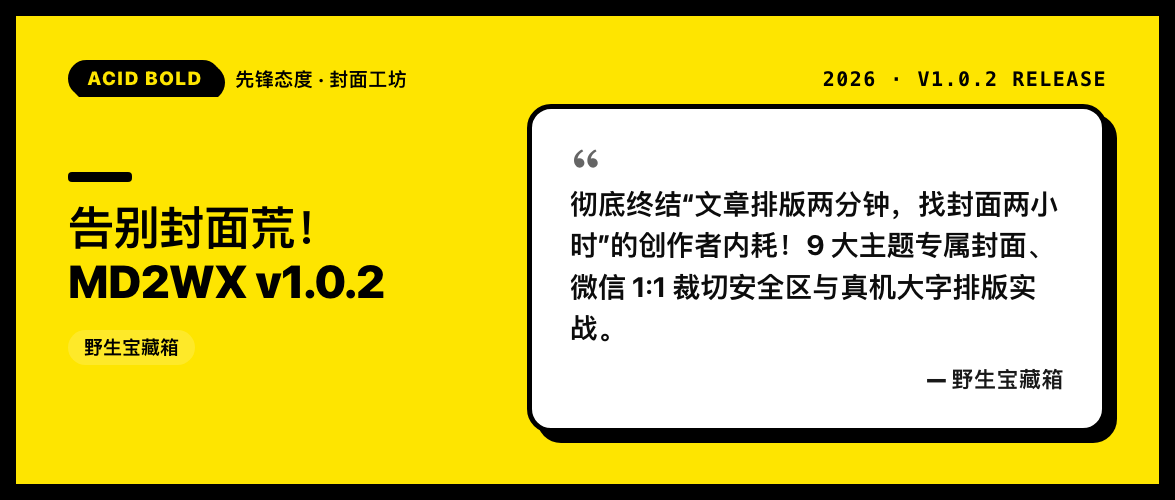
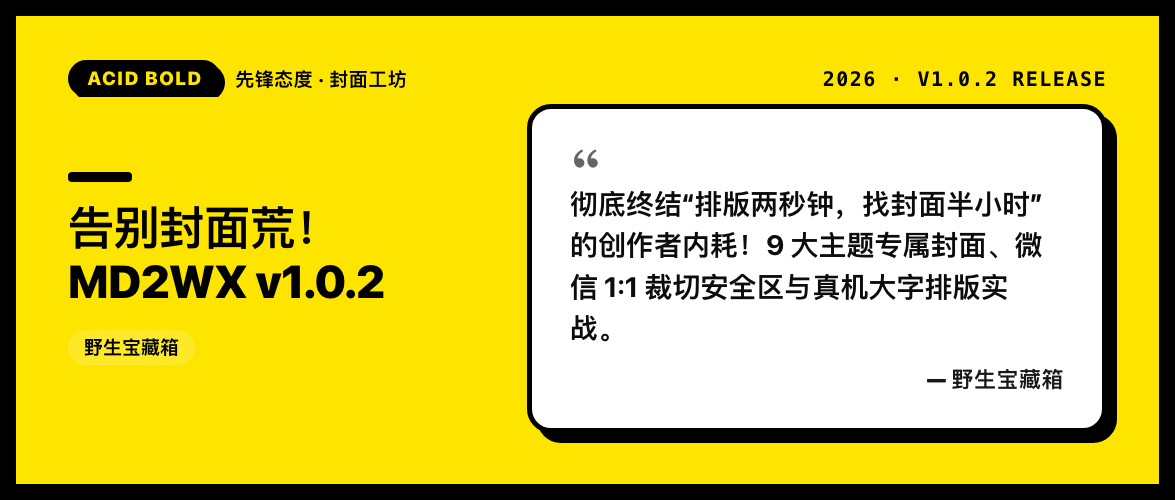
fix(parser): improve bold regex to prevent swallow and unify slogan to '排版两秒钟，找封面半小时'

Changed region(s): [[0.4902, 0.36, 0.9191, 0.6]]

diff --git a/web/src/core/parser.js b/web/src/core/parser.js
@@ -128,9 +128,9 @@ export function formatInline(text, accent, codeFontSize = '13.5px', footnotes = 
     return k;
   });
 
-  // 3. 粗体与斜体
-  text = text.replace(/\*\*(.+?)\*\*/g, '<strong>$1</strong>');
-  text = text.replace(/(^|[^*])\*([^*]+?)\*(?!\*)/g, '$1<em>$2</em>');
+  // 3. 粗体与斜体 (严格界定符，避免内部跨越 ** 或穿透普通文本导致反转误加粗)
+  text = text.replace(/\*\*(?![\*\s])((?:[^*]|\*(?!\*))+?)(?<![\*\s])\*\*/g, '<strong>$1</strong>');
+  text = text.replace(/(^|[^*])\*(?![\*\s])([^*\n]+?)(?<![\*\s])\*(?!\*)/g, '$1<em>$2</em>');
 
   // 4. 彻底还原保护的 tokens (支持嵌套多轮展开)
   let loops = 5;

diff --git a/tests/test_parser.py b/tests/test_parser.py
@@ -237,6 +237,16 @@ kind: Pod
         self.assertNotIn("<style>", html)
         self.assertNotIn("<script>", html)
 
+    def test_bold_inline_with_quotes_and_asterisks(self):
+        """测试加粗遇到单引号、双引号以及容错避免跨段误吞"""
+        md = "测试 **'单引号'** 与 **“中文双引号”**，还有多余星号容错：**加粗1**。**** 中间普通文本 **加粗2**"
+        html = markdown_to_wechat_html(md)
+        self.assertIn("<strong>'单引号'</strong>", html)
+        self.assertIn("<strong>“中文双引号”</strong>", html)
+        self.assertIn("<strong>加粗1</strong>", html)
+        self.assertIn("<strong>加粗2</strong>", html)
+        self.assertNotIn("<strong> 中间普通文本", html)
+
 if __name__ == "__main__":
     unittest.main()
 

diff --git a/md2wx/parser.py b/md2wx/parser.py
@@ -110,9 +110,9 @@ def format_inline(text: str, accent: str, code_font_size: str = "13.5px", footno
 
     text = re.sub(r"\[(.*?)\]\((.*?)\)", save_link, text)
 
-    # 3. 粗体与斜体
-    text = re.sub(r"\*\*(.+?)\*\*", r"<strong>\1</strong>", text)
-    text = re.sub(r"(?<!\*)\*([^*]+?)\*(?!\*)", r"<em>\1</em>", text)
+    # 3. 粗体与斜体 (严格界定符，避免内部跨越 ** 或穿透普通文本导致反转误加粗)
+    text = re.sub(r"\*\*(?![\*\s])((?:[^*]|\*(?!\*))+?)(?<![\*\s])\*\*", r"<strong>\1</strong>", text)
+    text = re.sub(r"(?<!\*)\*(?![\*\s])([^*\n]+?)(?<![\*\s])\*(?!\*)", r"<em>\1</em>", text)
 
     # 4. 彻底还原保护的 tokens (支持多层嵌套展开)
     max_loops = 5

diff --git a/devlogs/devlog_part4_cover_studio.md b/devlogs/devlog_part4_cover_studio.md
@@ -1,7 +1,7 @@
 ---
 title: 告别封面荒！MD2WX v1.0.2 发布：9 大主题专属封面、微信 1:1 裁切安全区与真机大字排版实战
 author: 野生宝藏箱
-digest: 彻底终结“文章排版两分钟，找封面两小时”的创作者内耗！全面复盘 MD2WX v1.0.2 如何为 9 大主题量身打造同源专属封面、攻克单图文转发 1:1 裁切断头痛点、重塑手机真机发表预览大字版，以及免下载直粘微信后台的高效工作流。
+digest: 彻底终结“排版两秒钟，找封面半小时”的创作者内耗！全面复盘 MD2WX v1.0.2 如何为 9 大主题量身打造同源专属封面、攻克单图文转发 1:1 裁切断头痛点、重塑手机真机发表预览大字版，以及免下载直粘微信后台的高效工作流。
 cover: assets/covers/cover-v1.0.2-article.png
 ---
 
@@ -25,8 +25,9 @@ cover: assets/covers/cover-v1.0.2-article.png
 
 瞬间，写作的心流被打得粉碎。
 
-你不得不打开各种搜图网站、设计软件或 AI 画图工具，开始漫长繁琐的 **“找图、抠图、对齐色调、调整尺寸”。****  好不容易找到一张图，上传后发现跟整篇文章的排版风格完全割裂；更让人抓狂的是，微信单图文转发给好友或群聊时，后台会直接从 2.35:1 的长图里**强制截取左半部分的 1:1 正方形**，导致标题直接被腰斩、画面残缺断裂！
-**“用了 MD2WX文章排版两秒钟，折腾封面半小时。”**  
+你不得不打开各种搜图网站、设计软件或 AI 画图工具，开始漫长繁琐的 **“找图、抠图、对齐色调、调整尺寸”**。好不容易找到一张图，上传后发现跟整篇文章的排版风格完全割裂；更让人抓狂的是，微信单图文转发给好友或群聊时，后台会直接从 2.35:1 的长图里**强制截取左半部分的 1:1 正方形**，导致标题直接被腰斩、画面残缺断裂！
+
+**“用了 MD2WX，排版两秒钟，找封面半小时。”**  
 这是很多公众号创作者最隐秘、却最消耗热情的内耗。
 
 **为什么排版工具不能直接为当前主题提供一张设计同源、自适应多比例、支持一键复制的专属默认封面？**

diff --git a/devlogs/README.md b/devlogs/README.md
@@ -48,7 +48,7 @@ devlogs/
 ### [Part 4: 9大主题专属封面、1:1安全区与真机大字排版](devlog_part4_cover_studio.md)
 - **版本关联**：`v1.0.2`
 - **主要内容**：
-  - 终结“排版两分钟，找封面两小时”的内耗：推出 **Cover Studio 封面工坊**。
+  - 终结“排版两秒钟，找封面半小时”的内耗：推出 **Cover Studio 封面工坊**。
   - 为 9 大视觉主题定制同源设计语言的默认封面模板。
   - 攻克微信公众号**单图文转发 1:1 裁切“断头”痛点**，首创 2.35:1 全图与 1:1 核心安全区实时预览视框。
   - 优化移动端字号与层级：推出“真机大字版”正文排版（16px 正文字号、1.85 行高、精调行距）。
